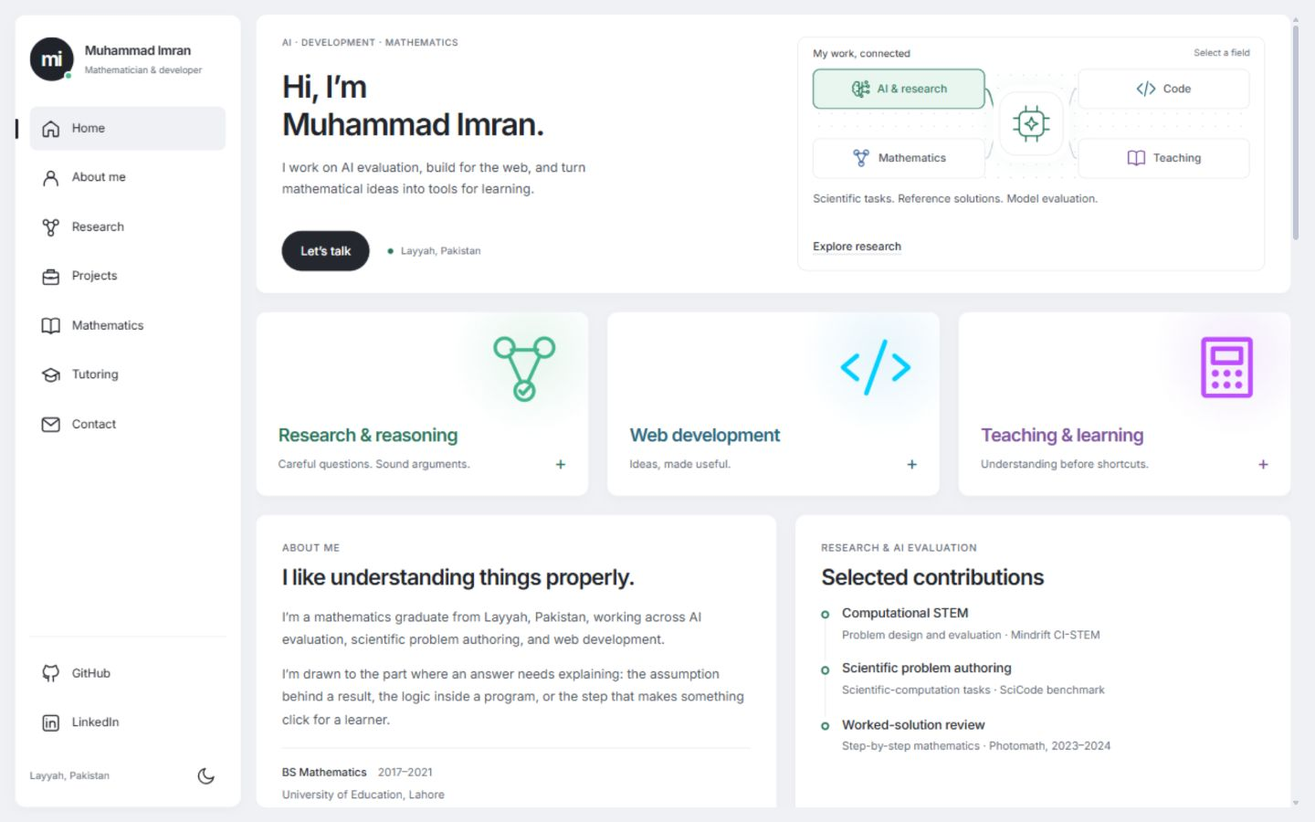
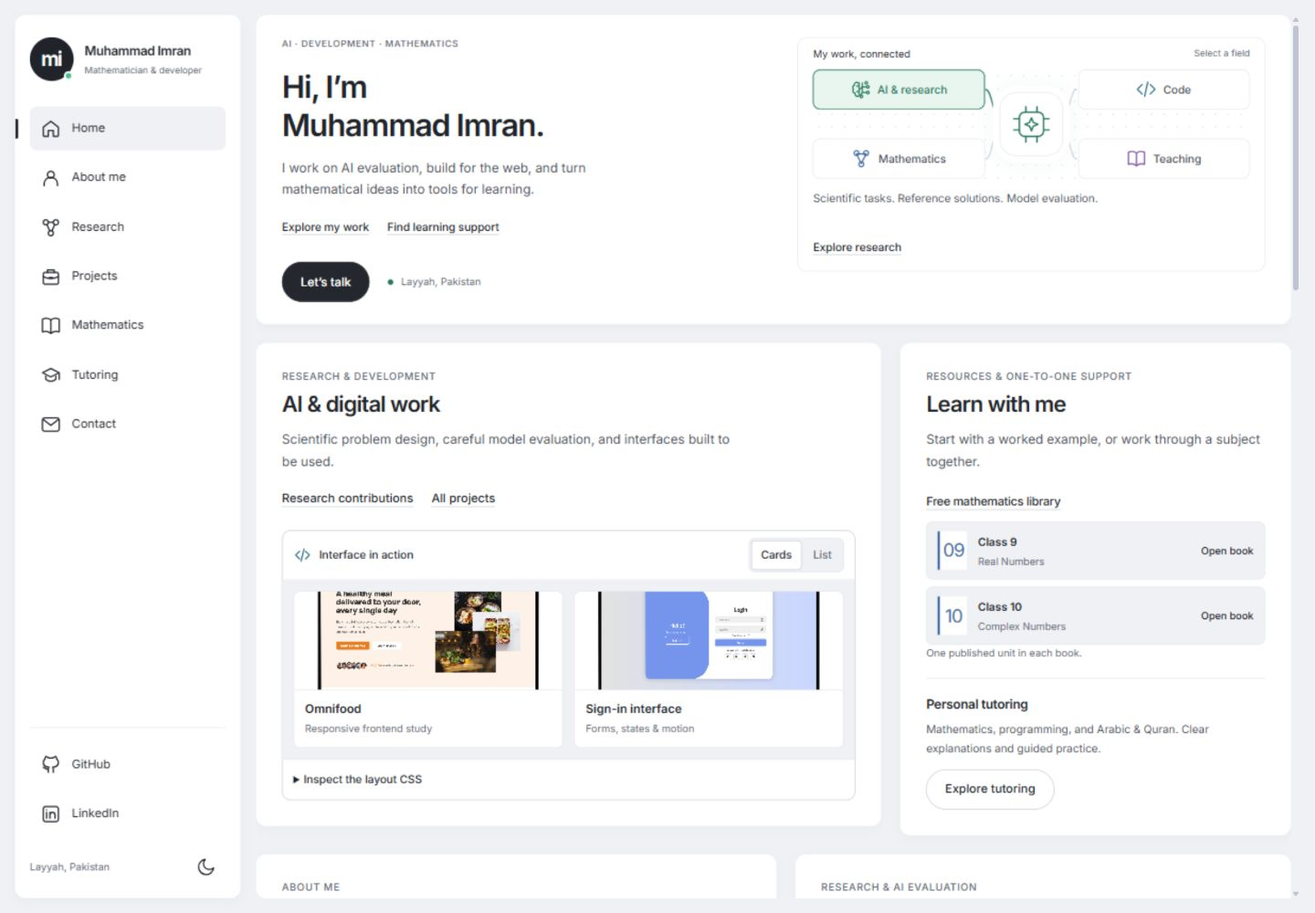
Show interface work and clarify homepage audience paths

diff --git a/src/pages/index.html b/src/pages/index.html
@@ -18,6 +18,7 @@
 @@SOURCE(src/components/site-foundation.html)@@
 <link rel="stylesheet" href="/assets/site.css">
 <link rel="stylesheet" href="/assets/work-specimen.css">
+<link rel="stylesheet" href="/assets/home-pathways.css">
 </head>
 <body data-site>
 <a class="skip-link" href="#main">Skip to content</a>
@@ -25,17 +26,16 @@
        NAV (desktop + hamburger trigger for mobile)
        ========================================================= -->
 @@SOURCE(src/components/site-header.html)@@<main id="main" class="home-workspace"><div class="panel welcome welcome--specimen">
-<section class="welcome__copy" id="home"><p class="eyebrow">AI · Development · Mathematics</p><h1>Hi, I’m Muhammad Imran.</h1><p>I work on AI evaluation, build for the web, and turn mathematical ideas into tools for learning.</p><div class="welcome__aside"><a class="btn" href="#contact">Let’s talk</a><span class="location-note"><span aria-hidden="true"></span>Layyah, Pakistan</span></div></section>
+<section class="welcome__copy" id="home"><p class="eyebrow">AI · Development · Mathematics</p><h1>Hi, I’m Muhammad Imran.</h1><p>I work on AI evaluation, build for the web, and turn mathematical ideas into tools for learning.</p><nav class="welcome-paths" aria-label="Start exploring"><a class="text-link" href="#professional-work">Explore my work</a><a class="text-link" href="#learning">Find learning support</a></nav><div class="welcome__aside"><a class="btn" href="#contact">Let’s talk</a><span class="location-note"><span aria-hidden="true"></span>Layyah, Pakistan</span></div></section>
 </div>
-<section class="disciplines" aria-label="My areas of work"><button type="button" class="discipline discipline--research discipline__trigger" id="discipline-research" aria-expanded="true" aria-controls="discipline-panel-research"><span class="discipline__art" aria-hidden="true"><img src="/ICONS/reasoning-green.svg" alt="" width="96" height="96"></span><span class="discipline__title">Research &amp; reasoning</span><span class="discipline__subtitle">Careful questions. Sound arguments.</span><span class="discipline__toggle" aria-hidden="true">+</span></button><div class="discipline__body" id="discipline-panel-research" role="region" aria-labelledby="discipline-research"><div class="discipline__copy"><p>I contribute to AI evaluation and scientific problem design, checking assumptions, intermediate reasoning, and reproducible results.</p></div><a class="text-link" href="#research"><span class="btn__inner"><span class="btn__text">Explore my research</span></span></a></div><button type="button" class="discipline discipline--development discipline__trigger" id="discipline-development" aria-expanded="true" aria-controls="discipline-panel-development"><span class="discipline__art" aria-hidden="true"><img src="/ICONS/code-blue-50.svg" alt="" width="96" height="96"></span><span class="discipline__title">Web development</span><span class="discipline__subtitle">Ideas, made useful.</span><span class="discipline__toggle" aria-hidden="true">+</span></button><div class="discipline__body" id="discipline-panel-development" role="region" aria-labelledby="discipline-development"><div class="discipline__copy"><p>I build interfaces with HTML, CSS, and JavaScript, connecting the visual details to how a page actually behaves.</p></div><a class="text-link" href="/projects/"><span class="btn__inner"><span class="btn__text">View my projects</span></span></a></div><button type="button" class="discipline discipline--teaching discipline__trigger" id="discipline-teaching" aria-expanded="true" aria-controls="discipline-panel-teaching"><span class="discipline__art" aria-hidden="true"><img src="/ICONS/calculator-purple-65.svg" alt="" width="96" height="96"></span><span class="discipline__title">Teaching &amp; learning</span><span class="discipline__subtitle">Understanding before shortcuts.</span><span class="discipline__toggle" aria-hidden="true">+</span></button><div class="discipline__body" id="discipline-panel-teaching" role="region" aria-labelledby="discipline-teaching"><div class="discipline__copy"><p>I teach mathematics, programming, and Arabic through clear explanations, worked examples, and purposeful practice.</p></div><a class="text-link" href="/tutoring/"><span class="btn__inner"><span class="btn__text">Explore tutoring</span></span></a></div></section>
+@@SOURCE(src/components/home-pathways.html)@@
 @@SOURCE(src/components/work-specimen.html)@@
 <div class="home-background">
 <section class="panel about-personal" id="about"><p class="eyebrow">About me</p><h2>I like understanding things properly.</h2><p>I’m a mathematics graduate from Layyah, Pakistan, working across AI evaluation, scientific problem authoring, and web development.</p><p>I’m drawn to the part where an answer needs explaining: the assumption behind a result, the logic inside a program, or the step that makes something click for a learner.</p><div class="about-education"><strong>BS Mathematics</strong><span>2017–2021</span><span>University of Education, Lahore</span></div></section>
 <section class="panel contributions-panel" id="research"><p class="eyebrow">Research &amp; AI evaluation</p><h2>Selected contributions</h2><div class="research-notes"><article><span class="timeline-dot" aria-hidden="true"></span><div><h3>Computational STEM</h3><p>Problem design and evaluation · Mindrift CI-STEM</p></div></article><article><span class="timeline-dot" aria-hidden="true"></span><div><h3>Scientific problem authoring</h3><p>Scientific-computation tasks · SciCode benchmark</p></div></article><article><span class="timeline-dot" aria-hidden="true"></span><div><h3>Worked-solution review</h3><p>Step-by-step mathematics · Photomath, 2023–2024</p></div></article></div></section>
 </div>
-<section class="panel home-library"><div class="home-library__intro"><div><h2>A growing mathematics library</h2><p>Complete reasoning. Readable solutions. Practice you can make your own.</p></div></div><div class="home-library__books"><a href="/solutions/class-9/"><span>09</span>Real Numbers </a><a href="/solutions/class-10/"><span>10</span>Complex Numbers </a></div><div class="panel-foot"><span>One published unit in each book · Classes 11 &amp; 12 planned</span><div class="home-library__links"><a class="text-link" href="/solutions/"><span class="btn__inner"><span class="btn__text">Explore the library</span></span></a><a class="text-link" href="/solutions/#interactive-ideas">Interactive ideas</a></div></div></section>
 <section class="panel home-projects" id="work"><div class="panel-heading"><div><p class="eyebrow">Learning by making</p><h2>Selected projects</h2></div><a class="btn btn--ghost" href="/projects/"><span class="btn__inner"><span class="btn__text">All projects</span></span></a></div>@@SOURCE(src/components/selected-work.html)@@</section>
-<div class="home-columns home-columns--equal"><section class="panel tools-panel"><div class="panel-heading"><h2>Tools for the work</h2><span class="section-label">A few essentials</span></div><div class="tool-grid"><div><span><img src="/ICONS/html5-colorful.svg" alt="" width="42" height="42" loading="lazy"></span><strong>HTML</strong></div><div><span><img src="/ICONS/css3-colorful.svg" alt="" width="42" height="42" loading="lazy"></span><strong>CSS</strong></div><div><span><img src="/ICONS/javascript-colorful.svg" alt="" width="42" height="42" loading="lazy"></span><strong>JavaScript</strong></div><div><span><img src="/ICONS/latex-colorful.svg" alt="" width="42" height="42" loading="lazy"></span><strong>LaTeX</strong></div></div><p class="small-copy">Structure, presentation, interaction, and mathematical typesetting. Alongside Python and Git, these are tools I use to turn an idea into working material.</p></section><section class="panel teaching-panel" id="tutoring"><div class="panel-heading"><h2>Learn with me</h2></div><p>Patient explanation, careful reasoning, and practice with a purpose.</p><ul class="teaching-topics"><li>Mathematics</li><li>Programming</li><li>Arabic &amp; Quran</li></ul><a class="btn btn--ghost" href="/tutoring/"><span class="btn__inner"><span class="btn__text">Explore one-to-one tutoring</span></span></a></section></div>
+<section class="panel tools-panel"><div class="panel-heading"><h2>Tools for the work</h2><span class="section-label">A few essentials</span></div><div class="tool-grid"><div><span><img src="/ICONS/html5-colorful.svg" alt="" width="42" height="42" loading="lazy"></span><strong>HTML</strong></div><div><span><img src="/ICONS/css3-colorful.svg" alt="" width="42" height="42" loading="lazy"></span><strong>CSS</strong></div><div><span><img src="/ICONS/javascript-colorful.svg" alt="" width="42" height="42" loading="lazy"></span><strong>JavaScript</strong></div><div><span><img src="/ICONS/latex-colorful.svg" alt="" width="42" height="42" loading="lazy"></span><strong>LaTeX</strong></div></div><p class="small-copy">Structure, presentation, interaction, and mathematical typesetting. Alongside Python and Git, these are tools I use to turn an idea into working material.</p></section>
 <section class="panel home-contact" id="contact"><div class="contact-copy"><p class="eyebrow">Get in touch</p><h2>Have something<br> in mind?</h2><p>A research task, a website, or a subject you want to understand better. Tell me a little about it.</p><a class="contact-email" href="mailto:imranbinmanzoor1@gmail.com"><svg viewBox="0 0 24 24" fill="none" stroke="currentColor" stroke-width="1.6" stroke-linecap="round" stroke-linejoin="round" aria-hidden="true"><rect x="2" y="4" width="20" height="16" rx="3"/><path d="m3 6 9 7 9-7"/></svg><span>Email me directly </span></a><div class="contact-links"><a href="https://github.com/imranbinmanzoor" target="_blank" rel="noopener">GitHub </a><a href="https://linkedin.com/in/imranbinmanzoor-dev/" target="_blank" rel="noopener">LinkedIn </a></div></div><form action="https://formspree.io/f/xzzangvz" class="contact-form" id="contact-form" method="POST" novalidate="">
 <div class="field">
 <label for="f-name">Name</label>
@@ -70,5 +70,6 @@
 @@SOURCE(src/components/site-footer.html)@@
 <script src="/assets/scripts.js"></script>
 <script defer src="/assets/work-specimen.js"></script>
+<script defer src="/assets/home-pathways.js"></script>
 </body>
 </html>

diff --git a/src/assets/home-pathways.css b/src/assets/home-pathways.css
@@ -1,0 +1,55 @@
+/* Different starting points, within the same personal portfolio. */
+.welcome-paths{display:flex;flex-wrap:wrap;gap:4px 20px;margin-top:12px}
+.welcome-paths a{display:inline-flex;align-items:center;min-height:36px;font-size:12px}
+.home-pathways{display:grid;grid-template-columns:minmax(0,1.6fr) minmax(280px,1fr);gap:20px;align-items:start}
+.home-pathways .eyebrow{margin-bottom:8px}
+.home-pathways h2{font-size:24px;line-height:1.2;margin-bottom:12px}
+.path-intro{font-size:14px;line-height:1.75;max-width:56ch}
+.path-links{display:flex;flex-wrap:wrap;gap:4px 20px;margin-block:10px 16px}
+.path-links a{display:inline-flex;align-items:center;min-height:36px}
+.interface-demo{margin:0;border:1px solid var(--ds-line-strong);border-radius:10px;overflow:hidden;background:var(--ds-surface)}
+.interface-demo figcaption{display:flex;align-items:center;justify-content:space-between;gap:8px;padding:8px 12px;border-bottom:1px solid var(--ds-line);font-size:12px}
+.demo-caption{display:inline-flex;align-items:center;gap:8px;color:var(--ds-ink);font-weight:500}
+.demo-caption svg{width:20px;height:20px;color:var(--ds-cyan);flex:none}
+.demo-format{display:flex;gap:2px;border:1px solid var(--ds-line);padding:2px;border-radius:6px;background:var(--ds-page)}
+.demo-format[hidden]{display:none}
+.demo-format button{font:500 12px/1.5 var(--ds-font);min-height:32px;padding:4px 10px;border:1px solid transparent;border-radius:4px;color:var(--ds-muted);background:transparent;cursor:pointer}
+.demo-format button[aria-pressed=true]{background:var(--ds-surface);border-color:var(--ds-line-strong);color:var(--ds-ink)}
+.demo-format button:hover{color:var(--ds-ink)}
+.demo-stage{padding:12px;background:var(--ds-page)}
+.preview-projects{display:grid;grid-template-columns:repeat(auto-fit,minmax(min(100%,180px),1fr));gap:12px}
+.preview-project{display:grid;grid-template-columns:minmax(0,1fr);align-items:start;min-width:0;overflow:hidden;border:1px solid var(--ds-line);border-radius:7px;background:var(--ds-surface);text-decoration:none!important;color:var(--ds-ink)!important}
+.preview-project>img{width:100%;height:108px;object-fit:cover;object-position:center;display:block;border-bottom:1px solid var(--ds-line);transition:filter .18s}
+.preview-project>span{display:flex;flex-direction:column;gap:4px;padding:12px;min-width:0}
+.preview-project strong{font-size:13px;font-weight:600;line-height:1.4}
+.preview-project small{font-size:11px;line-height:1.5;color:var(--ds-muted)}
+.preview-project:hover{border-color:var(--ds-cyan)}
+.preview-project:hover>img{filter:saturate(1.12)}
+.preview-projects[data-layout=list]{grid-template-columns:minmax(0,1fr)}
+.preview-projects[data-layout=list] .preview-project{grid-template-columns:100px minmax(0,1fr);align-items:center}
+.preview-projects[data-layout=list] .preview-project>img{height:82px;border-bottom:0;border-right:1px solid var(--ds-line)}
+.demo-source{border-top:1px solid var(--ds-line)}
+.demo-source summary{padding:12px;font-size:12px;font-weight:500;cursor:pointer;color:var(--ds-ink)}
+.demo-source pre{margin:0 12px;padding:14px;border:1px solid var(--ds-line);border-radius:6px;background:var(--ds-page);color:var(--ds-cyan);font:11px/1.75 var(--ds-mono);white-space:pre-wrap;overflow-wrap:anywhere}
+.demo-source p{font-size:11px;line-height:1.65;color:var(--ds-muted);padding:10px 12px 14px}
+.learning-path h3{font-size:14px;line-height:1.5;margin-bottom:12px}
+.learning-library{margin-top:20px}
+.learning-books{display:grid;gap:8px}
+.learning-books a{display:flex;align-items:center;gap:12px;padding:10px 12px;border:1px solid var(--ds-line);border-radius:7px;text-decoration:none!important;color:var(--ds-ink)!important;background:var(--ds-page)}
+.learning-books a:hover{border-color:var(--ds-study)}
+.learning-book-number{display:grid;place-items:center;flex:none;width:32px;height:42px;border-left:3px solid var(--ds-study);background:var(--ds-surface);color:var(--ds-study);font-size:20px;letter-spacing:-.05em}
+.learning-books a>span:nth-child(2){display:flex;flex-direction:column;gap:3px;min-width:0}
+.learning-books strong{font-size:12px;font-weight:600}
+.learning-books small{font-size:11px;line-height:1.5;color:var(--ds-muted)}
+.learning-book-action{margin-left:auto;font-size:11px;white-space:nowrap;font-weight:500}
+.learning-availability{font-size:11px;color:var(--ds-muted);margin-top:8px}
+.learning-tutoring{margin-top:18px;padding-top:18px;border-top:1px solid var(--ds-line)}
+.learning-tutoring h3{margin-bottom:6px}
+.learning-tutoring p{font-size:12px;line-height:1.75;margin-bottom:12px}
+.learning-tutoring .btn{font-size:12px;min-height:40px;padding:8px 16px}
+.home-workspace>.tools-panel .small-copy{max-width:76ch}
+@media(max-width:1099px){.home-pathways{grid-template-columns:minmax(0,1.45fr) minmax(260px,1fr)}.home-pathways>.panel{padding:20px}.learning-book-action{font-size:10px}.learning-books a{padding-inline:8px;gap:8px}}
+@media(max-width:899px){.home-pathways{grid-template-columns:1fr}.learning-path{display:grid;grid-template-columns:1fr 1fr;column-gap:24px}.learning-path>.eyebrow,.learning-path>h2,.learning-path>.path-intro{grid-column:1/-1}.learning-tutoring{border-top:0;border-left:1px solid var(--ds-line);padding:0 0 0 24px;margin-top:20px}}
+@media(max-width:599px){.home-pathways{gap:16px}.home-pathways h2{font-size:21px}.path-intro{font-size:13px}.learning-path{display:block}.learning-tutoring{border-left:0;border-top:1px solid var(--ds-line);padding:16px 0 0;margin-top:16px}.interface-demo figcaption{flex-wrap:wrap}.demo-caption{font-size:11px}.demo-format button{padding-inline:8px}.preview-project>img{height:120px}.welcome-paths{gap:0 16px}.welcome-paths a{font-size:11px}}
+@media(prefers-reduced-motion:reduce){.interface-demo *{transition:none!important}}
+@media(forced-colors:active){.demo-format button[aria-pressed=true]{outline:1px solid Highlight}.learning-book-number{border:1px solid CanvasText}}

diff --git a/src/components/home-pathways.html b/src/components/home-pathways.html
@@ -1,0 +1,31 @@
+<div class="home-pathways">
+  <section class="panel professional-path" id="professional-work" aria-labelledby="professional-title">
+    <p class="eyebrow">Research &amp; development</p>
+    <h2 id="professional-title">AI &amp; digital work</h2>
+    <p class="path-intro">Scientific problem design, careful model evaluation, and interfaces built to be used.</p>
+    <nav class="path-links" aria-label="Explore professional work"><a class="text-link" href="#research">Research contributions</a><a class="text-link" href="#work">All projects</a></nav>
+    <figure class="interface-demo" data-interface-demo>
+      <figcaption><span class="demo-caption"><svg viewBox="0 0 24 24" fill="none" stroke="currentColor" stroke-width="1.6" stroke-linecap="round" stroke-linejoin="round" aria-hidden="true"><path d="m8 7-5 5 5 5m8-10 5 5-5 5M14 4l-4 16"/></svg>Interface in action</span><span class="demo-format" role="group" aria-label="Project preview layout" hidden><button type="button" aria-pressed="true" data-layout="cards">Cards</button><button type="button" aria-pressed="false" data-layout="list">List</button></span></figcaption>
+      <div class="demo-stage">
+        <div class="preview-projects" data-layout="cards">
+          <a class="preview-project" href="/projects/omnifood/"><img src="/IMAGES/omnifood.webp" alt="" width="360" height="200" decoding="async"><span><strong>Omnifood</strong><small>Responsive frontend study</small></span></a>
+          <a class="preview-project" href="/projects/modern-page/"><img src="/IMAGES/modern-page.webp" alt="" width="360" height="200" decoding="async"><span><strong>Sign-in interface</strong><small>Forms, states &amp; motion</small></span></a>
+        </div>
+      </div>
+      <details class="demo-source"><summary>Inspect the layout CSS</summary><pre tabindex="0" aria-label="CSS for the project preview layout"><code data-layout-source>/* Cards adapt to the available width. */
+.preview-projects {
+  display: grid;
+  grid-template-columns:
+    repeat(auto-fit, minmax(min(100%, 180px), 1fr));
+  gap: 12px;
+}</code></pre><p>Live HTML and CSS. Open a project for its context, decisions, and device views.</p></details>
+    </figure>
+  </section>
+  <section class="panel learning-path" id="learning" aria-labelledby="learning-title">
+    <p class="eyebrow">Resources &amp; one-to-one support</p>
+    <h2 id="learning-title">Learn with me</h2>
+    <p class="path-intro">Start with a worked example, or work through a subject together.</p>
+    <div class="learning-library"><h3><a class="text-link" href="/solutions/">Free mathematics library</a></h3><div class="learning-books"><a href="/solutions/class-9/"><span class="learning-book-number" aria-hidden="true">09</span><span><strong>Class 9</strong><small>Real Numbers</small></span><span class="learning-book-action">Open book</span></a><a href="/solutions/class-10/"><span class="learning-book-number" aria-hidden="true">10</span><span><strong>Class 10</strong><small>Complex Numbers</small></span><span class="learning-book-action">Open book</span></a></div><p class="learning-availability">One published unit in each book.</p></div>
+    <div class="learning-tutoring" id="tutoring"><h3>Personal tutoring</h3><p>Mathematics, programming, and Arabic &amp; Quran. Clear explanations and guided practice.</p><a class="btn btn--ghost" href="/tutoring/">Explore tutoring</a></div>
+  </section>
+</div>

diff --git a/src/assets/home-pathways.js b/src/assets/home-pathways.js
@@ -1,0 +1,34 @@
+(() => {
+  'use strict';
+  const demo = document.querySelector('[data-interface-demo]');
+  if (!demo) return;
+  const grid = demo.querySelector('.preview-projects');
+  const controls = demo.querySelector('.demo-format');
+  const buttons = [...controls.querySelectorAll('button')];
+  const source = demo.querySelector('[data-layout-source]');
+  const cardsSource = source.textContent;
+  const reducedMotion = matchMedia('(prefers-reduced-motion: reduce)');
+  const listSource = `/* The same projects, in a compact list. */
+.preview-projects[data-layout=list] {
+  grid-template-columns: minmax(0, 1fr);
+}
+.preview-projects[data-layout=list] .preview-project {
+  grid-template-columns: 100px minmax(0, 1fr);
+  align-items: center;
+}`;
+  let motion;
+  function select(button) {
+    const layout = button.dataset.layout;
+    if (grid.dataset.layout === layout) return;
+    motion?.cancel();
+    grid.dataset.layout = layout;
+    buttons.forEach(item => item.setAttribute('aria-pressed', String(item === button)));
+    source.textContent = layout === 'list' ? listSource : cardsSource;
+    if (!reducedMotion.matches) {
+      motion = grid.animate([{opacity: .65, transform: 'translateY(4px)'}, {opacity: 1, transform: 'translateY(0)'}], {duration: 180, easing: 'ease-out'});
+    }
+  }
+  reducedMotion.addEventListener('change', () => { if (reducedMotion.matches) motion?.cancel(); });
+  buttons.forEach(button => button.addEventListener('click', () => select(button)));
+  controls.hidden = false;
+})();

diff --git a/src/assets/work-specimen.js b/src/assets/work-specimen.js
@@ -3,11 +3,11 @@
   const specimen=document.querySelector('[data-work-specimen]');
   if(!specimen)return;
   const welcome=document.querySelector('.welcome--specimen');
-  const disciplines=document.querySelector('.disciplines');
+  const pathways=document.querySelector('.home-pathways');
   const mobile=matchMedia('(max-width:699.98px)');
   function placeSpecimen(){
     const focused=specimen.contains(document.activeElement)?document.activeElement:null;
-    if(mobile.matches){disciplines.after(specimen);welcome.removeAttribute('data-specimen');}
+    if(mobile.matches){pathways.after(specimen);welcome.removeAttribute('data-specimen');}
     else{welcome.append(specimen);welcome.setAttribute('data-specimen','');}
     focused?.focus({preventScroll:true});
     requestAnimationFrame(()=>{

diff --git a/docs/DESIGN_SYSTEM.md b/docs/DESIGN_SYSTEM.md
@@ -65,9 +65,24 @@ Book introductions place a modest cover beside the text instead of at the far en
 
 ## Interaction and grouping
 
-The three discipline controls are disclosures, with native buttons, aria-expanded and aria-controls. One can be open at a time. On desktop, the detail spans the row and forms a continuous boundary with its selected card; its accessible name comes from the selected button without a duplicate visible title. On mobile it follows its card. Connector geometry is measured from actual border boxes, including fractional browser scaling, rather than inferred from nominal grid widths. Enter and Space operate the button; opening a panel does not move focus unexpectedly.
+The homepage provides two explicit audience paths after its personal introduction.
+AI & digital work is the larger desktop column; Learn with me groups the mathematics
+library and personal tutoring. Below 900px the paths stack in that order. At tablet
+width the learning panel groups library and tutoring side by side; phones use one
+column. The earlier three discipline disclosures are replaced, rather than repeated.
 
-This applies NN/g's common-region guidance (https://www.nngroup.com/articles/common-region/) and the W3C disclosure pattern (https://www.w3.org/WAI/ARIA/apg/patterns/disclosure/), consulted 2026-09-19. It is a design judgment, not a claim of user-study validation.
+The professional path contains a working project browser with real preview images
+and native Cards / List pressed buttons. A native disclosure reveals the CSS that
+corresponds to the selected layout. Keep the preview links functional without scripts;
+only reveal layout controls after enhancement. Focus stays on the selected control.
+The brief, user-triggered transition respects reduced motion. There is no autoplay,
+editable code execution, invented benchmark or simulated AI claim.
+Implementation: home-pathways.html, home-pathways.css and home-pathways.js.
+
+This uses evidence of actual work alongside clear service routes, informed by
+[NN/g's homepage iteration study](https://www.nngroup.com/articles/case-study-iterative-design-prototyping/)
+and [W3C animation guidance](https://www.w3.org/WAI/WCAG22/Understanding/animation-from-interactions.html),
+consulted 2026-09-20. This is a design judgment, not user-study validation of this site.
 
 Project tiles are single links with a View project hover/focus cue and no decorative arrows. Tutoring uses concise subject introductions and three grouped learning cards instead of a tall asymmetric text split. Footer links have 44px targets, coherent padding and a separate copyright row.
 
@@ -77,7 +92,12 @@ Contact success replaces the form with a prominent Message sent panel, animated 
 
 Use visible focus, semantic controls, measured contrast, reduced-motion behavior, mobile-menu focus containment and Escape return. Keep long mathematics in its own accessible horizontal scroller. Empty search fields must not show a clear button; the clear control appears immediately when text is entered. The search wrapper owns the border and focus ring.
 
-The homepage leads with the compact personal introduction, followed immediately by research, development and teaching. The mathematical explorer lives after the library book catalogue inside a native, initially closed "Interactive mathematics" disclosure. A secondary "Interactive ideas" link in the homepage library panel targets /solutions/#interactive-ideas; this opens the disclosure and focuses its summary. Closing it removes its controls from keyboard navigation. The homepage does not load explorer or KaTeX assets.
+The homepage leads with the compact personal introduction and explicit professional
+and learning paths. The mathematical explorer lives after the library book catalogue
+inside a native, initially closed "Interactive mathematics" disclosure. The direct
+/solutions/#interactive-ideas route opens the disclosure and focuses its summary.
+Closing it removes its controls from keyboard navigation. The homepage does not load
+explorer or KaTeX assets.
 
 The explorer offers three independent views: odd-number square layers, a parabola and its tangent, and exact fair-coin probabilities. Native sliders, keyboard tabs and a magnification checkbox update the visual and mathematical account together. A compact disclosure gives the reasoning and assumptions. Diagram and explanation align at their top edges so opening a proof does not push its diagram down. There is no autoplay, experimental simulation, or claim of research provenance. Math labels use KaTeX; model functions are separate from rendering.
 
@@ -97,8 +117,7 @@ The single homepage introduction identifies the person and their work; there is 
 
 The homepage work map connects AI & research, Code, Mathematics and Teaching to actual
 work destinations. At 700px and above it shares the compact introduction; below that it
-follows the professional role cards in both DOM and visual order. The contact row aligns
-with the map's lower edge on desktop. Use the shared colours and SVG line-icon family,
+follows the two audience paths in both DOM and visual order. Use the shared colours and SVG line-icon family,
 one selected-field description and no repeated heading. About is a personal account
 beside the factual contributions panel, with aligned section typography.
 

diff --git a/docs/HOME_PATHWAYS_QA.md b/docs/HOME_PATHWAYS_QA.md
@@ -1,0 +1,56 @@
+# Homepage audience paths and interface preview
+
+2026-09-20. Implements the owner's request for visual evidence of interface work and
+clearer grouping for professional visitors versus learners. The established personal
+introduction, connected work map, colours, sidebar and typography remain the foundation.
+
+## Change
+
+- Replaced the repetitive three role disclosures with professional and learning paths.
+- The larger professional column includes research/project routes and two existing
+  project previews. Cards / List changes actual layout; an optional CSS inspector
+  shows the corresponding rules. The images are previews, not embedded applications.
+- The learning column groups the two published books and mathematics, programming,
+  and Arabic & Quran tutoring. Hero entry links lead directly to either path.
+- Removed the now-duplicated lower library/tutoring panels. About, factual contributions,
+  selected projects, tools and contact remain. Refreshed the portfolio case's three
+  genuine homepage screenshots.
+- No dependencies, external requests, code execution or new professional claims.
+
+Design references: [NN/g homepage iteration](https://www.nngroup.com/articles/case-study-iterative-design-prototyping/)
+for showing work alongside service routes, and [W3C animation guidance](https://www.w3.org/WAI/WCAG22/Understanding/animation-from-interactions.html)
+for optional motion. These inform the design; no visitor usability study was conducted.
+
+## Browser evidence
+
+Actual Codex Browser interaction with the local built site, including screenshots at
+320, 430, 768, 1024, 1440 and 1920 CSS pixels. No document or new-component horizontal
+overflow at those widths. The closed desktop audience panels finish about 10px apart
+in height at 1024, 1440 and 1920px; they are not stretched to create empty interiors.
+
+- Cards/List changes the layout and pressed state; Enter and Space work and retain focus.
+- The CSS inspector updates for the selected layout and fits a 320px viewport.
+- Dark theme inspected on the new controls and code panel.
+- Reduced-motion emulation: switching succeeds with zero preview animations.
+- Site loaded with script execution disabled: both project links and native CSS
+  disclosure remain available; layout buttons stay hidden. Execution was re-enabled
+  for Browser inspection without reloading the page; SiteScroll was still absent,
+  confirming the site's scripts had not executed. Normal scripting restored afterward.
+- The work map retains the selected Mathematics tab and focus when moving from the
+  phone layout into the tablet hero. Existing keyboard arrow selection still works.
+- Find learning support moves focus to the learning region and places its top at 112px
+  on the tested phone. The library link opens the correct catalogue. Both hero paths
+  set the expected hash and destination focus.
+- No captured console errors or warnings during the homepage checks.
+
+Evidence is local, not published: `home-pathways-*.png` and `home-pathways-matrix.json`
+under the task's visualization directory. The case-study images are the reviewed
+`public/IMAGES/portfolio-current-{desktop,tablet,mobile}.jpg` captures.
+
+This is responsive Chromium emulation, not physical-device/cross-browser certification.
+Contact submission, mathematical correctness and print were not re-tested for this
+homepage-only change. Existing book source/data were not edited.
+
+## Release
+
+Build, check, exact live identity and rollback are recorded at publication below.
